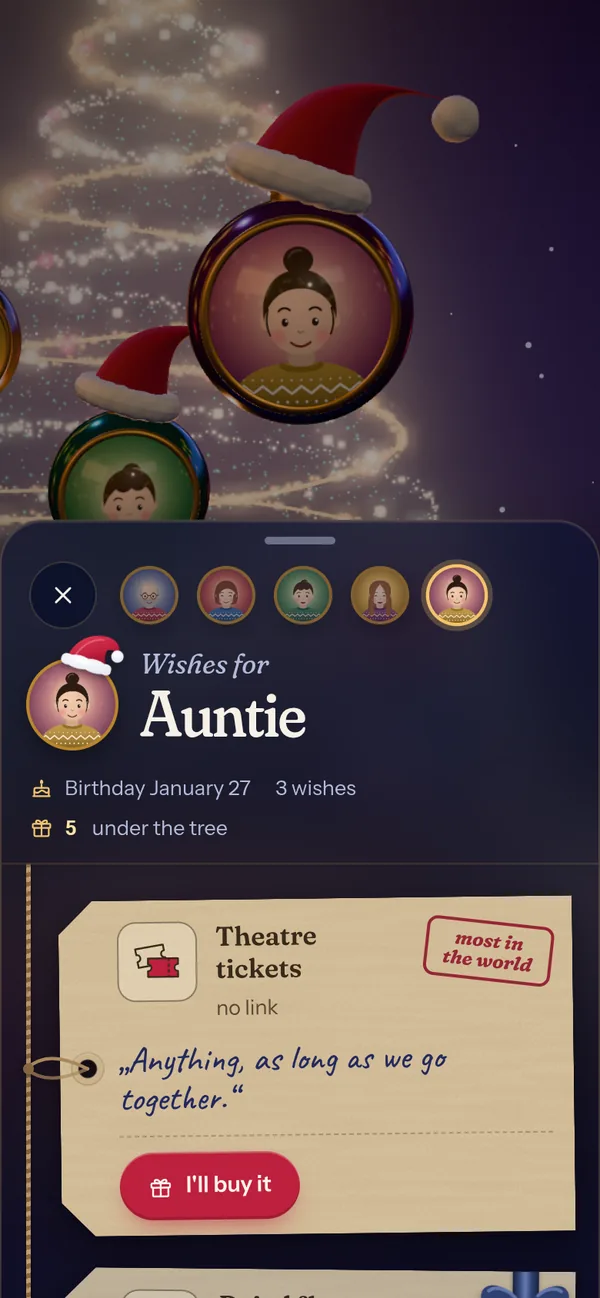
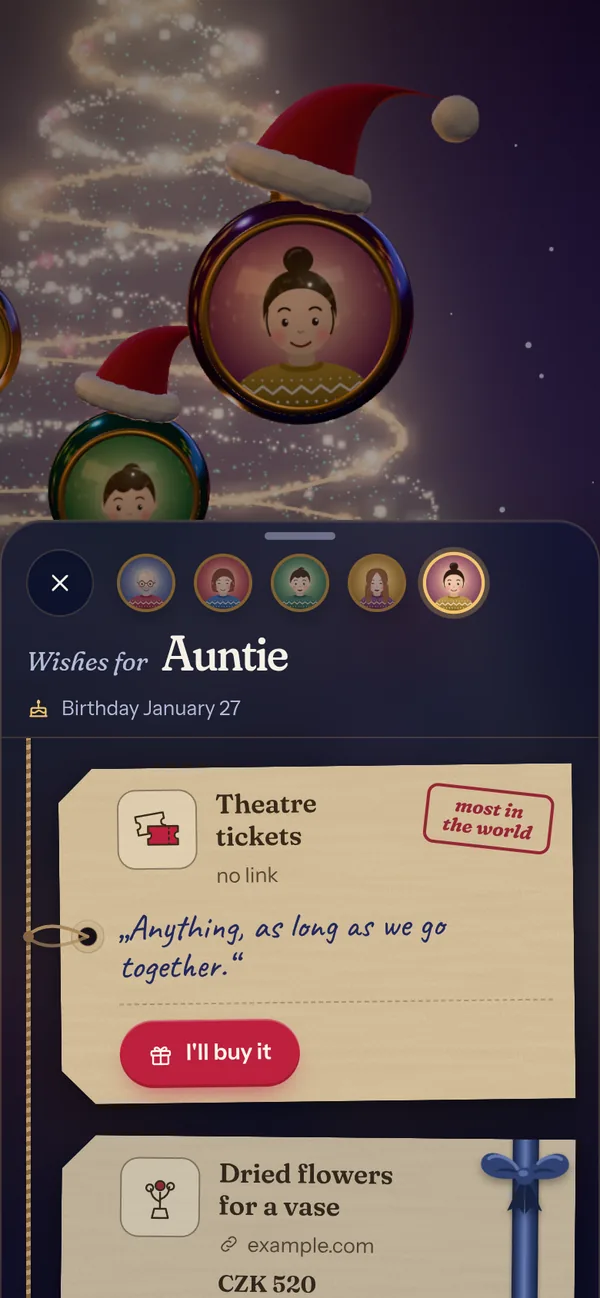
panel: slim mobile header with profile tools behind a menu, back gesture closes the list

Changed region(s): [[0.03, 0.4006, 0.96, 1.0], [0.09, 0.4314, 0.12, 0.4622], [0.03, 0.8629, 0.06, 0.8937]]

diff --git a/web/src/app.css b/web/src/app.css
@@ -186,7 +186,9 @@ button.up-chip:hover{border-color:color-mix(in srgb,var(--accent) 60%,transparen
 .strip .avatar .hat{display:none!important}
 .ph-who{display:flex;align-items:flex-end;gap:16px}
 .ph-who .avatar{margin-bottom:4px}
-.ph-names{min-width:0}
+.ph-title{margin:0;min-width:0;font-weight:inherit}
+.ph-title>span{display:block}
+.ph-tools-btn{display:none}
 .ph-kicker{margin:0;font-family:var(--font-display);font-style:italic;font-size:18px;line-height:1.2;color:var(--frost);font-variation-settings:var(--soft),"opsz" 24}
 .ph-name{margin:0;padding-bottom:.08em;font-family:var(--font-display);font-weight:500;font-size:50px;line-height:1.04;letter-spacing:-.02em;color:var(--snow);
   font-variation-settings:var(--soft),"opsz" 144;overflow-wrap:anywhere}
@@ -195,9 +197,14 @@ button.up-chip:hover{border-color:color-mix(in srgb,var(--accent) 60%,transparen
 .ph-sub svg{width:16px;height:16px;color:var(--accent)}
 .ph-sub b{color:var(--accent-hi);font-weight:600;font-variant-numeric:tabular-nums;display:inline-block}
 .ph-sub .cel-badge{padding:3px 11px 3px 8px;border-radius:999px;background:color-mix(in srgb,var(--accent) 18%,transparent);color:var(--accent-hi);font-weight:600}
-.ph-secret{margin:0;display:flex;gap:10px;align-items:flex-start;font-size:14px;line-height:1.45;color:var(--snow);
-  padding:11px 14px;border-radius:14px;background:color-mix(in srgb,var(--accent) 9%,transparent);border:1px solid color-mix(in srgb,var(--accent) 20%,transparent)}
-.ph-secret svg{width:18px;height:18px;color:var(--accent);margin-top:1px}
+.ph-actions{display:flex;flex-wrap:wrap;gap:8px}
+.pill-btn{display:inline-flex;align-items:center;gap:7px;min-height:40px;padding:0 15px 0 12px;border-radius:999px;
+  border:1px solid color-mix(in srgb,var(--frost) 30%,transparent);background:rgba(255,255,255,.04);color:var(--snow);font-size:13.5px;font-weight:600;
+  transition:border-color .2s,background .2s}
+.pill-btn:hover{border-color:color-mix(in srgb,var(--accent) 60%,transparent);background:rgba(255,255,255,.08)}
+.pill-btn svg{width:16px;height:16px;color:var(--accent)}
+.ph-secret{margin:-4px 0 18px 30px;display:flex;gap:9px;align-items:flex-start;font-size:13.5px;line-height:1.45;color:var(--frost)}
+.ph-secret svg{width:16px;height:16px;color:var(--accent);margin-top:2px}
 .p-scroll{flex:1;min-height:0;overflow-y:auto;overscroll-behavior:contain;padding:20px 22px 40px 14px;-webkit-overflow-scrolling:touch;
   scrollbar-width:thin;scrollbar-color:color-mix(in srgb,var(--accent) 30%,transparent) transparent}
 .sec-title{margin:6px 0 12px 30px;font-family:var(--font-display);font-style:italic;font-weight:500;font-size:19px;color:var(--frost);font-variation-settings:var(--soft),"opsz" 24}
@@ -472,12 +479,23 @@ select.field option{background:#0d1433;color:var(--snow)}
     border-radius:28px 28px 0 0;border-bottom:0;padding-left:env(safe-area-inset-left,0px);padding-right:env(safe-area-inset-right,0px);
     will-change:transform;touch-action:none}
   .panel[data-detent="medium"] .p-scroll{overflow:hidden}
-  .grab{display:block;flex:none;width:100%;height:24px;border:0;background:none;padding:0;position:relative}
-  .grab::before{content:"";position:absolute;left:50%;top:10px;width:46px;height:5px;margin-left:-23px;border-radius:3px;background:color-mix(in srgb,var(--frost) 50%,transparent)}
-  .ph{padding:2px 18px 14px;gap:12px}
-  .ph-name{font-size:42px}
-  .avatar.lg{width:56px;height:56px}
-  .p-scroll{padding:16px 16px calc(env(safe-area-inset-bottom,0px) + 40px) 8px}
+  .grab{display:block;flex:none;width:100%;height:18px;border:0;background:none;padding:0;position:relative}
+  .grab::before{content:"";position:absolute;left:50%;top:7px;width:46px;height:5px;margin-left:-23px;border-radius:3px;background:color-mix(in srgb,var(--frost) 50%,transparent)}
+  .ph{padding:0 16px 10px;gap:6px}
+  .ph-who .avatar{display:none}
+  .ph-title{display:flex;flex-wrap:wrap;align-items:baseline;column-gap:9px}
+  .ph-title .ph-kicker{font-size:17px}
+  .ph-name{font-size:32px;line-height:1.1}
+  .ph.mine .ph-name{display:none}
+  .ph.mine .ph-kicker{font-style:normal;font-weight:500;font-size:32px;line-height:1.1;letter-spacing:-.02em;color:var(--snow);font-variation-settings:var(--soft),"opsz" 144}
+  .ph-sub{font-size:13px}
+  #pCount,.ph-sub .gift-chip,.ph.mine .ph-bday{display:none}
+  .ph.mine .ph-sub:not(:has(.cel-badge)){display:none}
+  .ph-tools-btn{display:grid;margin-left:auto}
+  .ph-tools-btn[aria-expanded="true"]{background:color-mix(in srgb,var(--accent) 22%,transparent);border-color:color-mix(in srgb,var(--accent) 60%,transparent)}
+  .ph-actions{display:none}
+  .ph-actions.open{display:flex;padding-top:4px}
+  .p-scroll{padding:12px 16px calc(env(safe-area-inset-bottom,0px) + 40px) 8px}
   .tag{padding:14px 14px 10px 38px}
   .tag-body{grid-template-columns:52px minmax(0,1fr) auto;gap:12px}
   .tag-wrap[data-state="mine"] .tag-body,.tag-wrap[data-state="others"] .tag-body,.tag-wrap[data-state="wrapped"] .tag-body{grid-template-columns:52px minmax(0,1fr) 30px}
@@ -494,12 +512,6 @@ select.field option{background:#0d1433;color:var(--snow)}
   .tag,.tag-wrap:hover .tag{transition:none}
 }
 
-.ph-actions{display:flex;flex-wrap:wrap;gap:8px}
-.pill-btn{display:inline-flex;align-items:center;gap:7px;min-height:40px;padding:0 15px 0 12px;border-radius:999px;
-  border:1px solid color-mix(in srgb,var(--frost) 30%,transparent);background:rgba(255,255,255,.04);color:var(--snow);font-size:13.5px;font-weight:600;
-  transition:border-color .2s,background .2s}
-.pill-btn:hover{border-color:color-mix(in srgb,var(--accent) 60%,transparent);background:rgba(255,255,255,.08)}
-.pill-btn svg{width:16px;height:16px;color:var(--accent)}
 
 .tag-art.has-img{overflow:hidden;background:#fffdf8;border-color:rgba(56,41,26,.32);padding:4px}
 .tag-art img{width:100%;height:100%;object-fit:contain;display:block;border-radius:8px}
@@ -578,5 +590,6 @@ body.focus .preview-pill{display:none}
 .lang button{border:0;background:none;min-height:34px;padding:0 12px;border-radius:999px;color:var(--frost);font-size:13px;font-weight:600}
 .lang button[aria-pressed="true"]{background:var(--accent);color:var(--on-accent)}
 .lang button:hover:not([aria-pressed="true"]){color:var(--snow)}
+@media (max-width:760px){.lang button{min-height:44px}}
 .ob-lang{display:flex;justify-content:center;margin-top:18px}
 .auth-card .ob-lang{justify-content:flex-start}

diff --git a/web/src/components/Panel.svelte b/web/src/components/Panel.svelte
@@ -24,6 +24,7 @@
   let open = $state(false);
   let detent = $state<Detent>('medium');
   let scrolled = $state(false);
+  let tools = $state(false);
 
   const dim = () => document.getElementById('dim');
   const H = () => innerHeight;
@@ -67,7 +68,7 @@
     if (reduced || !panel) return;
     gsap.from(panel.querySelectorAll('#tagList > li'), { y: 28, rotation: -5, opacity: 0, duration: 0.75, ease: 'back.out(1.6)', stagger: 0.07, delay, transformOrigin: '0% 50%', clearProps: 'transform,opacity' });
     gsap.from(panel.querySelectorAll('#composer, #reveal'), { y: 16, opacity: 0, duration: 0.6, ease: 'power3.out', delay: Math.max(0, delay - 0.08), clearProps: 'transform,opacity' });
-    gsap.from(panel.querySelectorAll('.ph-who, .ph-sub, .ph-secret'), { y: 10, opacity: 0, duration: 0.6, ease: 'power3.out', stagger: 0.05, delay: Math.max(0, delay - 0.15), clearProps: 'transform,opacity' });
+    gsap.from(panel.querySelectorAll('.ph-who, .ph-sub'), { y: 10, opacity: 0, duration: 0.6, ease: 'power3.out', stagger: 0.05, delay: Math.max(0, delay - 0.15), clearProps: 'transform,opacity' });
   }
 
   function hide(instant: boolean, returnTo: MemberId | null) {
@@ -90,7 +91,7 @@
     if (f === prev) return;
     const was = prev;
     prev = f;
-    if (f) { shownId = f; scrolled = false; void show(!was); }
+    if (f) { shownId = f; scrolled = false; tools = false; void show(!was); }
     else hide(app.phase !== 'home', was);
   });
 
@@ -188,7 +189,7 @@
   id="panel"
   role="dialog"
   aria-modal="false"
-  aria-labelledby="pName"
+  aria-labelledby="pTitle"
   tabindex="-1"
   hidden={!open}
   bind:this={panel}
@@ -201,7 +202,7 @@
   {#if m && shownId}
     <button class="grab" type="button" aria-label={t.panel.resize} onpointerdown={grabPointer}
       onclick={() => { if (isMobile()) setDetent(detent === 'large' ? 'medium' : 'large'); }}></button>
-    <header class="ph" class:scrolled id="pHead">
+    <header class="ph" class:mine class:scrolled id="pHead">
       <div class="ph-row">
         <button class="icon-btn" id="pClose" type="button" aria-label={t.panel.close} bind:this={closeBtn} onclick={() => app.closePanel()}><Icon name="close" /></button>
         {#if app.family.members.length > 1}
@@ -212,16 +213,19 @@
             {/each}
           </nav>
         {/if}
+        {#if mine}
+          <button class="icon-btn ph-tools-btn" type="button" aria-label={t.panel.tools} aria-expanded={tools} aria-controls="pTools" onclick={() => (tools = !tools)}><Icon name="more" /></button>
+        {/if}
       </div>
       <div class="ph-who">
         <Avatar id={shownId} size="lg" />
-        <div class="ph-names"><p class="ph-kicker">{mine ? t.panel.yourWishes : t.panel.wishesFor}</p><h2 class="ph-name" id="pName">{m.name}</h2></div>
+        <h2 class="ph-title" id="pTitle"><span class="ph-kicker">{mine ? t.panel.yourWishes : t.panel.wishesFor}</span> <span class="ph-name" id="pName">{m.name}</span></h2>
       </div>
       <p class="ph-sub">
         {#if cel}
           <span class="cel-badge"><Icon name="cake" />{st.diff === 0 ? t.panel.celebratesToday : st.diff < 0 ? t.panel.wasYesterday : t.panel.celebrates(t.inDays(st.diff))}</span>
         {:else if nb}
-          <span><Icon name="cake" />{t.panel.birthday(longDate(nb.day))}</span>
+          <span class="ph-bday"><Icon name="cake" />{t.panel.birthday(longDate(nb.day))}</span>
         {/if}
         <span id="pCount">{t.panel.count(count)}</span>
         {#if st.mode !== 'quiet'}
@@ -229,14 +233,13 @@
         {/if}
       </p>
       {#if mine}
-        <div class="ph-actions">
+        <div class="ph-actions" id="pTools" class:open={tools}>
           <button class="pill-btn" type="button" data-pa="profile" onclick={() => app.startOnboarding({ kind: 'edit' })}><Icon name="pencil" />{t.panel.editProfile}</button>
           {#if app.isAdmin}
             <button class="pill-btn" type="button" data-pa="invite" onclick={() => (app.modal = { kind: 'invites' })}><Icon name="user-plus" />{t.panel.invite}</button>
           {/if}
           <LangSwitch />
         </div>
-        <p class="ph-secret"><Icon name="sparkle" /><span>{st.mode === 'xmas' && st.phase !== 'after' ? t.panel.secretXmas : t.panel.secretParty}</span></p>
       {/if}
     </header>
     <div class="p-scroll" id="pScroll" bind:this={scroller} onscroll={() => (scrolled = (scroller?.scrollTop ?? 0) > 4)}>
@@ -244,6 +247,7 @@
         <Reveal />
         <Composer onfocusfield={() => { if (isMobile() && detent !== 'large') setDetent('large'); }} />
         <h3 class="sec-title">{t.panel.onList}</h3>
+        <p class="ph-secret"><Icon name="sparkle" /><span>{st.mode === 'xmas' && st.phase !== 'after' ? t.panel.secretXmas : t.panel.secretParty}</span></p>
       {/if}
       <ul class="tags" id="tagList">
         {#each list as w, i (app.keyOf(w.id))}

diff --git a/web/src/lib/app.svelte.ts b/web/src/lib/app.svelte.ts
@@ -62,6 +62,9 @@ class App {
   constructor() {
     this.store = this.demo ? demoStore(() => this.family) : pocketbaseStore();
     addEventListener('pagehide', () => this.flushOps());
+    // the system back gesture closes an open list instead of leaving the app
+    if (history.state?.panel) history.replaceState(null, '');
+    addEventListener('popstate', () => { if (this.phase === 'focus') this.closePanel(); });
     document.addEventListener('visibilitychange', () => { if (document.visibilityState === 'hidden') this.flushOps(); });
     setInterval(() => this.tickDay(), 60000);
     if (this.demo) i18n.onChange(() => this.resetDemo());
@@ -277,6 +280,7 @@ class App {
     if (!this.member(id)) return;
     this.finishIntro(); this.tmOpen = false;
     const was = this.phase;
+    if (was !== 'focus') history.pushState({ panel: true }, '');
     this.phase = 'focus'; this.focus = id; this.editing = null;
     this.scrollToReveal = !!opts.reveal;
     this.scene?.focus(id, was === 'focus');
@@ -287,6 +291,7 @@ class App {
   closePanel(instant = false) {
     if (this.phase !== 'focus') return;
     this.phase = 'home'; this.focus = null; this.editing = null;
+    if (history.state?.panel) history.back();
     if (instant) { this.scene?.setInteraction('home'); return; }
     this.scene?.home();
     showChrome();

diff --git a/web/index.html b/web/index.html
@@ -58,6 +58,7 @@
   <symbol id="i-check" viewBox="0 0 24 24"><path d="M5 12.5l4.5 4.5L19 7.5"/></symbol>
   <symbol id="i-plus" viewBox="0 0 24 24"><path d="M12 5v14M5 12h14"/></symbol>
   <symbol id="i-chev" viewBox="0 0 24 24"><path d="M9 5.5l6.5 6.5L9 18.5"/></symbol>
+  <symbol id="i-more" viewBox="0 0 24 24"><circle cx="5.5" cy="12" r="1.7" fill="currentColor" stroke="none"/><circle cx="12" cy="12" r="1.7" fill="currentColor" stroke="none"/><circle cx="18.5" cy="12" r="1.7" fill="currentColor" stroke="none"/></symbol>
   <symbol id="i-chev-l" viewBox="0 0 24 24"><path d="M15 5.5L8.5 12l6.5 6.5"/></symbol>
   <symbol id="i-swap" viewBox="0 0 24 24"><path d="M5 9h13l-3.5-3.5M19 15H6l3.5 3.5"/></symbol>
   <symbol id="i-cake" viewBox="0 0 24 24"><path d="M4 20.5h16M5 20.5V14a1.5 1.5 0 0 1 1.5-1.5h11A1.5 1.5 0 0 1 19 14v6.5"/><path d="M5 16.2c2 1.4 3.5 1.4 5 0s3.5-1.4 5 0 3 1.4 4 0"/><path d="M12 12.5V9.5"/><path d="M12 5.2c-1.1 1.1-1.1 2.3 0 2.8 1.1-.5 1.1-1.7 0-2.8z"/></symbol>

diff --git a/web/src/lib/i18n/cs.ts b/web/src/lib/i18n/cs.ts
@@ -87,6 +87,7 @@ export const cs: Dict = {
   },
 
   panel: {
+    tools: 'Profil a jazyk',
     resize: 'Zvětšit nebo zmenšit panel',
     close: 'Zavřít',
     family: 'Rodina',

diff --git a/web/src/lib/i18n/en.ts b/web/src/lib/i18n/en.ts
@@ -88,6 +88,7 @@ export const en = {
   },
 
   panel: {
+    tools: 'Profile and language',
     resize: 'Make the panel bigger or smaller',
     close: 'Close',
     family: 'Family',

diff --git a/web/e2e/e2e.py b/web/e2e/e2e.py
@@ -297,6 +297,8 @@ async def main() -> None:
         await shot(admin, "7-admin-sees-gone")
 
         await solo(member)
+        # on a phone the profile tools sit behind the "more" button
+        await member.click(".ph-tools-btn")
         await member.locator('.ph-actions .lang button[lang="en"]').click()
         await expect(member.locator(".ph-kicker")).to_have_text("Your wishes")
         check(
@@ -307,6 +309,10 @@ async def main() -> None:
         await member.locator('.ph-actions .lang button[lang="cs"]').click()
         await expect(member.locator(".ph-kicker")).to_have_text("Tvoje přání")
         check(True, "language switch en to cs")
+        url = member.url
+        await member.evaluate("history.back()")
+        await member.wait_for_selector("#panel", state="hidden", timeout=30_000)
+        check(member.url == url, "back gesture closes the list and stays in the app")
 
         demo = await page(browser)
         await solo(demo)
